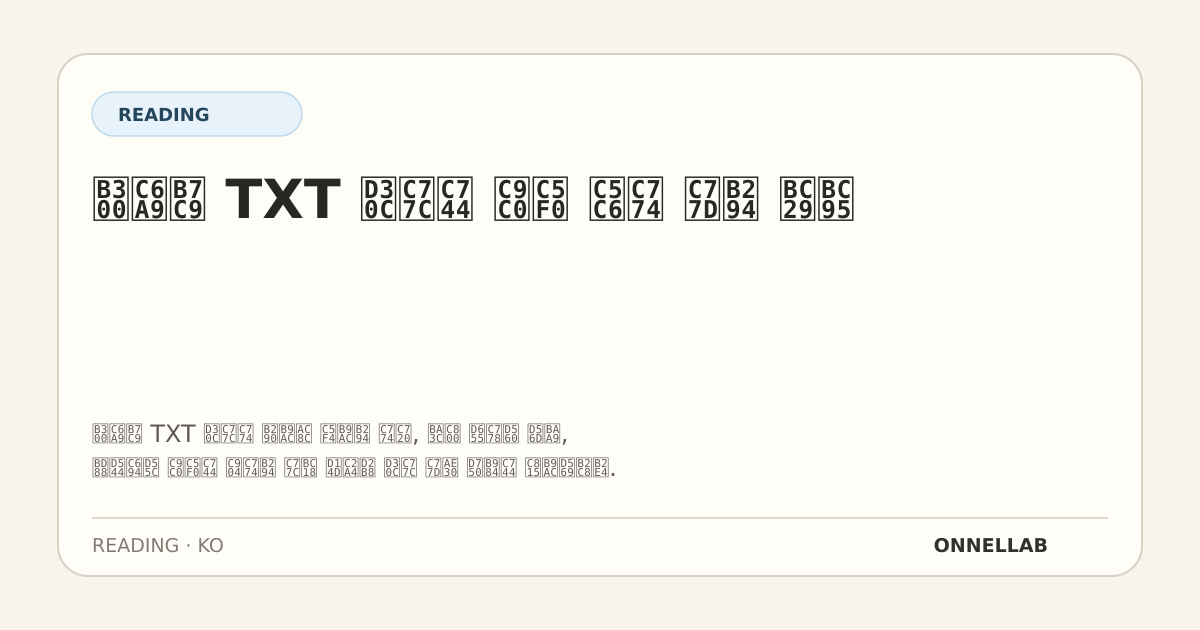
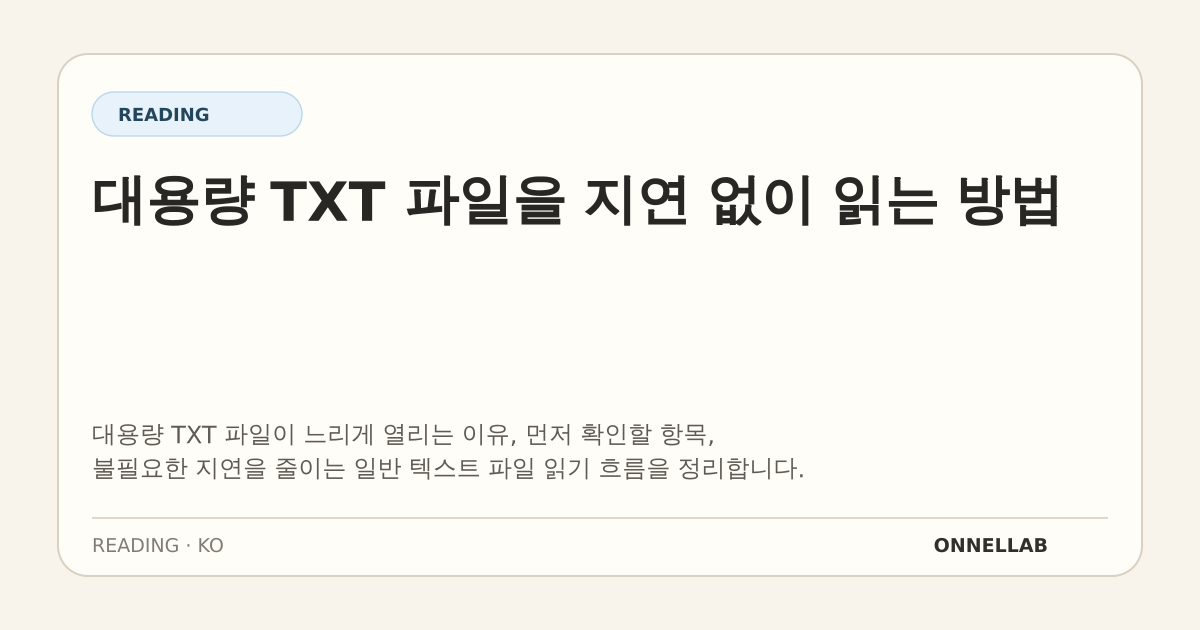
Publish TagWeaver metadata guides

Changed region(s): [[0.0617, 0.2714, 0.8942, 0.3619], [0.0617, 0.6635, 0.6783, 0.7841]]

diff --git a/src/content/blog/en/clean-up-mp3-metadata-before-organizing-music.md b/src/content/blog/en/clean-up-mp3-metadata-before-organizing-music.md
@@ -1,0 +1,133 @@
+---
+title: "How to Clean Up MP3 Metadata Before Organizing Music"
+card_title: "How to Clean Up MP3 Metadata Before Organizing Music"
+slug: "clean-up-mp3-metadata-before-organizing-music"
+category: "music"
+language: "en"
+description: "Clean up MP3 metadata safely with a backup-first workflow for titles, artists, albums, track numbers, artwork, and library verification."
+status: "published"
+topic_id: "TOPIC-0008"
+search_intent: "workflow"
+primary_keyword: "MP3 metadata editor"
+secondary_keywords: "ID3 tags|music library organization|album artwork|TagWeaver"
+related_apps: "TagWeaver"
+tags: "MP3 metadata editor|ID3 tags|music library organization|album artwork"
+image_specs: "Backup-first MP3 metadata cleanup workflow|Field consistency comparison|Manual save verification"
+canonical_url: "https://onnellab.github.io/blog/en/clean-up-mp3-metadata-before-organizing-music/"
+published_at: "2026-07-20T14:56:51+09:00"
+updated_at: "2026-07-20T14:56:51+09:00"
+related_articles: "How to Read Large TXT Files Without Lag => https://onnellab.github.io/blog/en/read-large-txt-files-without-lag/|How to Convert Local Media Files Privately => https://onnellab.github.io/blog/en/convert-local-media-files-privately/"
+---
+
+# How to Clean Up MP3 Metadata Before Organizing Music
+
+An MP3 can play perfectly while appearing under the wrong artist, splitting one album into several groups, or sorting tracks out of order. Fixing those symptoms is easier before importing a large collection than after a music library has indexed every inconsistency.
+
+## Question
+
+How can I clean up MP3 metadata before adding songs to a library?
+
+## Short Answer
+
+Work on copies, define one naming convention, correct the identity and ordering fields first, add artwork only after the text is consistent, save a small test batch, and inspect that batch in the destination player. Do not infer uncertain facts from filenames. A careful MP3 metadata editor workflow favors consistent, verified values over filling every possible field.
+
+## Definitions That Matter
+
+**Metadata** is descriptive information stored with the audio, such as title, artist, album, track number, disc number, genre, year, lyrics, and artwork. **ID3** is the tag format commonly used to carry that information in MP3 files. The ID3 specification assigns distinct frames to values such as the title (`TIT2`), album (`TALB`), track position (`TRCK`), disc position (`TPOS`), and attached picture (`APIC`).
+
+Encoding is the rule used to represent text as bytes. If software interprets a tag's text with the wrong encoding, names can appear as broken characters even though the audio is intact. Virtual rendering is an interface technique that draws only visible items in a long list; it can make a library view responsive, but it does not repair tags or make inconsistent album values match.
+
+An **embedded cover** is image data stored in the audio file's metadata. It is different from a separate image placed beside the album folder. The ID3v2.4 specification identifies JPEG and PNG as the preferred formats when interoperability matters and defines a front-cover picture type.
+
+## Why Cleanup Before Import Helps
+
+Music players usually group and sort files from tag values, not from the visual neatness of a folder. Two tracks can sit in the same directory yet form separate albums if their album or album-artist values differ by punctuation, spacing, or spelling. Track values also express order: `4/9` means track four of nine, while a disc value such as `1/2` identifies one part of a multi-disc set.
+
+The goal is not to make every field non-empty. The goal is to make the fields you trust internally consistent. A guessed release year or composer can be harder to detect later than an intentionally blank field.
+
+## What to Check First
+
+- Keep an untouched backup and edit duplicate files in a separate working folder.
+- Decide which source is authoritative for title, artist, album, and track order.
+- Write down capitalization, featured-artist, genre, and multi-disc conventions before bulk edits.
+- Check whether the destination player reads embedded metadata, a separate library database, or both.
+- Confirm that you have permission to use any artwork you plan to embed.
+
+## Recommended Workflow
+
+1. **Create a reversible workspace.** Copy a small album or five representative tracks into a test folder. Never begin with the only copy of the collection.
+2. **Identify each recording.** Listen briefly when the filename and current title disagree. Mark uncertain tracks instead of guessing.
+3. **Normalize identity fields.** Make title, artist, album, and album artist consistent. Use album artist deliberately for compilations or releases where track artists vary.
+4. **Set ordering fields.** Enter track number and total where known, then disc number and total for multi-disc releases. Check that every disc restarts at track one when that reflects the release.
+5. **Review optional fields.** Add year, genre, composer, lyrics, or rating only from a trustworthy source and only when they help the way you browse.
+6. **Handle artwork last.** Use a lawful, reasonably sized JPEG or PNG, mark it as the front cover when the editor offers that choice, and avoid embedding several redundant images.
+7. **Save and reopen the files.** Close the editor, reopen the test batch, and confirm that text, numbering, and artwork were actually written.
+8. **Test the destination library.** Import only the small batch. Inspect grouping, sort order, search results, non-Latin characters, and cover display before repeating the process.
+
+![Workflow diagram](/blog-assets/en/clean-up-mp3-metadata-before-organizing-music/workflow-diagram.svg "Backup-first MP3 metadata cleanup workflow")
+
+## Field Priority Comparison
+
+| Field group | Why it matters | Safe decision when uncertain |
+| --- | --- | --- |
+| Title and artist | Identifies the recording in search and playback views | Verify by listening; do not rely only on the filename |
+| Album and album artist | Controls grouping across a release | Apply one exact convention to every track in the album |
+| Track and disc position | Controls playback and display order | Include totals only when the complete set is known |
+| Year, genre, composer | Improves filtering and context | Leave blank rather than inventing a value |
+| Embedded artwork | Helps visual recognition | Add one authorized front cover after text cleanup |
+| Lyrics and extended fields | Supports specialized browsing or display | Preserve existing data unless there is a clear reason to change it |
+
+## Practical Cautions
+
+Batch editing is efficient precisely because one action affects many files. Filter the selection before changing a shared album, artist, year, or artwork value. Do not apply track-specific fields such as title or track number to an entire batch unless the editor provides a deliberate sequence operation.
+
+Keep the first backup until the cleaned collection has survived an import and a later reopen. Some players retain library records or cached artwork, so an old display does not necessarily prove that the file save failed. Reopen the file in the editor, then refresh or re-import only the test batch according to the player's documented behavior.
+
+Changing metadata does not improve audio quality, repair damaged audio, or prove factual accuracy. It changes the descriptive layer around the recording. Also avoid converting audio merely to edit tags; conversion can alter the media while a tag edit should remain a metadata task.
+
+## ONNELLAB Application
+
+[TagWeaver](/apps/tagweaver/) fits this manual, local cleanup workflow when you need an MP3 metadata editor for selected files. Its public store listings document editing for core identity fields, track and disc values, artwork, lyrics, and batch selections, with explicit save control. The current iOS listing also describes FLAC Vorbis Comment support, while the Google Play listing documents MP3 ID3 v2.3 and v2.4; check the relevant store listing for the format and platform you use.
+
+The app is a tool for applying decisions, not a source of music facts. Establish conventions, verify the recording, and test the saved output before expanding a batch.
+
+## Related Topics
+
+- How album artist differs from track artist in compilations
+- When to use track totals and disc totals
+- How text encoding affects non-Latin music tags
+- How to verify embedded artwork without changing audio
+
+## References
+
+- [ID3.org: ID3v2.4.0 frame definitions](https://id3.org/id3v2.4.0-frames) defines the title, album, track, disc, and attached-picture frames used in MP3 tags.
+- [ID3.org: ID3v2.3.0 specification](https://id3.org/id3v2.3.0) documents the earlier ID3v2.3 structure still used by many files and tools.
+- [Apple Support: Add artwork to content in Music on Mac](https://support.apple.com/guide/music/add-artwork-mus1c6803257/mac) describes supported artwork files and manual artwork changes in Apple's music library workflow.
+- [TagWeaver on the App Store](https://apps.apple.com/app/id6759609875) is the official iOS product listing and format-capability reference.
+- [TagWeaver on Google Play](https://play.google.com/store/apps/details?id=com.onnellab.tagweaver2) is the official Android product listing and ID3-capability reference.
+
+## Conclusion
+
+Treat metadata cleanup as a controlled data-quality task: preserve the original, standardize trusted fields, order tracks explicitly, add artwork after the text is stable, and prove the result with a small import. That workflow prevents a fast batch edit from becoming a collection-wide mistake.
+
+## FAQ
+
+### Should I fill every empty tag?
+
+No. Complete but unverified metadata is less useful than a smaller set of accurate, consistent fields. Prioritize title, artist, album, album artist, and ordering.
+
+### Why does one album appear as two albums?
+
+Compare album and album-artist values character by character. Small spelling, punctuation, or spacing differences can lead a player to group tracks separately.
+
+### Is album artist the same as track artist?
+
+Not always. Track artist identifies the performer credited on one recording. Album artist can provide a shared grouping value across a compilation or album with varying track credits.
+
+### Should track numbers include totals?
+
+Totals such as `4/9` are useful when you know the complete release. A correct position without a total is safer than an incorrect total.
+
+### Can changing tags reduce audio quality?
+
+A metadata-only save is conceptually separate from audio encoding. Keep a backup and verify the saved file because an editor's exact write behavior still matters.

diff --git a/src/content/blog/ko/clean-up-mp3-metadata-before-organizing-music.md b/src/content/blog/ko/clean-up-mp3-metadata-before-organizing-music.md
@@ -1,0 +1,133 @@
+---
+title: "음악 정리 전 MP3 메타데이터를 정돈하는 방법"
+card_title: "음악 정리 전 MP3 메타데이터를 정돈하는 방법"
+slug: "clean-up-mp3-metadata-before-organizing-music"
+category: "music"
+language: "ko"
+description: "제목, 아티스트, 앨범, 트랙 번호, 앨범 아트를 백업 우선 방식으로 점검하고 MP3 메타데이터를 안전하게 정돈하는 방법을 설명합니다."
+status: "published"
+topic_id: "TOPIC-0013"
+search_intent: "workflow"
+primary_keyword: "MP3 메타데이터 편집기"
+secondary_keywords: "ID3 태그|음악 라이브러리 정리|앨범 아트|TagWeaver"
+related_apps: "TagWeaver"
+tags: "MP3 메타데이터 편집기|ID3 태그|음악 라이브러리 정리|앨범 아트"
+image_specs: "백업부터 검증까지 이어지는 MP3 메타데이터 정돈 흐름|필드 우선순위 비교|직접 저장 결과 확인"
+canonical_url: "https://onnellab.github.io/blog/ko/clean-up-mp3-metadata-before-organizing-music/"
+published_at: "2026-07-20T14:56:51+09:00"
+updated_at: "2026-07-20T14:56:51+09:00"
+related_articles: "대용량 TXT 파일을 지연 없이 읽는 방법 => https://onnellab.github.io/blog/ko/read-large-txt-files-without-lag/|로컬 미디어 파일을 비공개로 변환하는 방법 => https://onnellab.github.io/blog/ko/convert-local-media-files-privately/"
+---
+
+# 음악 정리 전 MP3 메타데이터를 정돈하는 방법
+
+MP3 파일은 정상적으로 재생되는데 아티스트가 엉뚱하게 표시되거나, 한 앨범이 여러 묶음으로 갈라지거나, 곡 순서가 뒤섞일 수 있습니다. 많은 파일을 음악 보관함에 넣은 뒤 고치기보다 가져오기 전에 기준을 세우고 작은 묶음으로 검증하는 편이 안전합니다.
+
+## 질문
+
+음악 라이브러리에 곡을 추가하기 전에 MP3 메타데이터를 어떻게 정리해야 하나요?
+
+## 요약 답변
+
+원본을 복사하고, 이름 표기 기준을 먼저 정한 뒤, 제목·아티스트·앨범·트랙 순서부터 바로잡으세요. 텍스트 값이 일관된 후 앨범 아트를 추가하고, 소량의 시험 파일을 저장해 실제 음악 앱에서 묶음과 정렬을 확인합니다. 확실하지 않은 정보를 파일명만 보고 추측하지 않는 것이 중요합니다. 좋은 MP3 메타데이터 편집기 작업은 모든 칸을 채우는 일이 아니라 믿을 수 있는 값을 일관되게 만드는 일입니다.
+
+## 알아둘 정의
+
+**메타데이터**는 제목, 아티스트, 앨범, 트랙 번호, 디스크 번호, 장르, 연도, 가사, 그림처럼 오디오를 설명하는 정보입니다. **ID3**는 이런 정보를 MP3 파일에 담는 데 널리 쓰이는 태그 형식입니다. ID3 명세는 제목(`TIT2`), 앨범(`TALB`), 트랙 위치(`TRCK`), 디스크 위치(`TPOS`), 첨부 그림(`APIC`)을 서로 다른 프레임으로 구분합니다.
+
+인코딩은 글자를 바이트로 표현하는 규칙입니다. 프로그램이 태그의 인코딩을 잘못 해석하면 오디오는 멀쩡해도 한글이나 다른 문자가 깨져 보일 수 있습니다. 가상 렌더링은 긴 목록에서 화면에 보이는 항목만 그리는 화면 처리 방식입니다. 음악 목록을 빠르게 보여줄 수는 있지만 서로 다른 앨범 값이나 깨진 태그를 고쳐 주지는 않습니다. 일반 텍스트 파일의 문자 문제를 다룰 때와 마찬가지로, 보이는 글자와 실제 저장값을 구분해야 합니다.
+
+**내장 표지**는 이미지가 오디오 파일의 메타데이터 안에 저장된 형태입니다. 앨범 폴더 옆에 따로 둔 이미지와는 다릅니다. ID3v2.4 명세는 호환성이 중요할 때 JPEG와 PNG를 권장하며 앞표지 그림 유형을 별도로 정의합니다.
+
+## 가져오기 전에 정리해야 하는 이유
+
+음악 앱은 폴더가 보기 좋게 정리됐는지보다 태그 값을 기준으로 곡을 묶고 정렬하는 경우가 많습니다. 같은 폴더의 곡도 앨범명이나 앨범 아티스트의 띄어쓰기, 문장 부호, 표기가 다르면 여러 앨범으로 나뉠 수 있습니다. 트랙 값은 순서도 나타냅니다. `4/9`는 전체 아홉 곡 중 네 번째 곡을, `1/2` 같은 디스크 값은 두 장 구성 중 첫 번째 디스크를 뜻합니다.
+
+모든 필드를 빈틈없이 채우는 것이 목표는 아닙니다. 출처를 확인한 핵심 필드를 서로 모순 없이 만드는 것이 목표입니다. 추측한 발매 연도나 작곡가는 빈칸보다 나중에 오류를 알아차리기 어려울 수 있습니다.
+
+## 먼저 확인할 항목
+
+- 손대지 않은 원본을 보관하고 별도 작업 폴더의 복사본을 편집합니다.
+- 제목, 아티스트, 앨범, 곡 순서를 판단할 기준 자료를 정합니다.
+- 대문자 표기, 참여 아티스트, 장르, 여러 장으로 된 앨범의 규칙을 적어 둡니다.
+- 사용할 음악 앱이 파일 내장 태그와 자체 보관함 정보 중 무엇을 읽는지 확인합니다.
+- 넣으려는 앨범 아트를 사용할 권리가 있는지 확인합니다.
+
+## 권장 워크플로
+
+1. **되돌릴 수 있는 작업 공간을 만듭니다.** 앨범 하나나 서로 다른 유형의 다섯 곡 정도를 시험 폴더에 복사합니다. 유일한 원본부터 편집하지 않습니다.
+2. **곡의 정체를 확인합니다.** 파일명과 현재 제목이 다르면 짧게 재생해 확인합니다. 모르는 곡은 추측하지 말고 따로 표시합니다.
+3. **식별 필드를 통일합니다.** 제목, 아티스트, 앨범, 앨범 아티스트의 표기를 맞춥니다. 곡별 아티스트가 달라지는 모음집에서는 앨범 아티스트 값을 의도적으로 정합니다.
+4. **재생 순서를 입력합니다.** 알고 있는 경우 트랙 번호와 전체 곡 수를 입력합니다. 여러 장 구성이라면 디스크 번호와 전체 장수도 정하고 각 디스크가 실제 구성대로 1번부터 시작하는지 봅니다.
+5. **선택 필드를 검토합니다.** 연도, 장르, 작곡가, 가사, 별점은 믿을 수 있는 출처가 있고 실제 탐색에 도움이 될 때만 추가합니다.
+6. **앨범 아트는 마지막에 처리합니다.** 사용할 권리가 있는 적당한 크기의 JPEG 또는 PNG를 선택하고, 편집기가 유형을 제공하면 앞표지로 지정합니다. 같은 그림을 여러 장 중복 삽입하지 않습니다.
+7. **저장한 뒤 다시 엽니다.** 편집기를 닫고 시험 파일을 다시 열어 글자, 번호, 그림이 실제로 기록됐는지 확인합니다.
+8. **목적지 음악 앱에서 시험합니다.** 소량만 가져와 앨범 묶음, 정렬, 검색, 한글 표시, 표지 표시를 확인한 뒤 작업 범위를 넓힙니다.
+
+![워크플로 다이어그램](/blog-assets/ko/clean-up-mp3-metadata-before-organizing-music/workflow-diagram.svg "백업부터 가져오기 검증까지 이어지는 MP3 메타데이터 정돈 흐름")
+
+## 필드 우선순위 비교
+
+| 필드 묶음 | 중요한 이유 | 확실하지 않을 때의 안전한 선택 |
+| --- | --- | --- |
+| 제목과 아티스트 | 검색과 재생 화면에서 곡을 식별함 | 파일명만 믿지 말고 직접 들어 확인함 |
+| 앨범과 앨범 아티스트 | 한 음반의 곡을 같은 묶음으로 모음 | 앨범 전체에 정확히 같은 표기 규칙을 적용함 |
+| 트랙과 디스크 위치 | 표시 및 재생 순서를 결정함 | 전체 수를 모르면 정확한 현재 번호만 입력함 |
+| 연도, 장르, 작곡가 | 분류와 맥락 파악에 도움을 줌 | 값을 만들어 내지 말고 빈칸으로 둠 |
+| 내장 앨범 아트 | 시각적으로 음반을 찾기 쉽게 함 | 텍스트 정리 후 사용 권리가 있는 앞표지 한 장을 넣음 |
+| 가사와 확장 필드 | 특정 음악 앱의 탐색이나 표시에 쓰임 | 변경할 분명한 이유가 없다면 기존 값을 보존함 |
+
+## 실무상 주의점
+
+일괄 편집은 한 번의 작업이 여러 파일에 적용되므로 빠릅니다. 바로 그 이유로 선택 범위를 잘못 잡으면 피해도 커집니다. 공통 앨범명, 아티스트, 연도, 그림을 바꾸기 전에 파일 목록을 다시 확인하세요. 편집기가 의도적인 연속 번호 기능을 제공하지 않는다면 곡별 제목이나 트랙 번호를 전체 선택에 덮어쓰지 않습니다.
+
+정리한 파일을 음악 앱에 넣고 나중에 다시 열어 볼 때까지 첫 백업을 유지하세요. 일부 음악 앱은 예전 보관함 정보나 그림을 임시로 계속 보여줄 수 있으므로 화면이 그대로라고 해서 저장 실패라고 단정할 수는 없습니다. 먼저 편집기에서 파일을 다시 열어 실제 저장값을 확인하고, 음악 앱이 안내하는 방식으로 시험 묶음만 새로고침하거나 다시 가져옵니다.
+
+메타데이터를 바꾼다고 음질이 좋아지거나 손상된 오디오가 복구되거나 정보의 사실성이 보장되지는 않습니다. 바뀌는 것은 녹음을 설명하는 층입니다. 태그를 수정하려는 목적으로 오디오 형식까지 변환하지 마세요. 형식 변환은 음원에 영향을 줄 수 있지만 태그 편집은 메타데이터 작업으로 남아야 합니다.
+
+## ONNELLAB 앱
+
+[TagWeaver](/apps/tagweaver/)는 사용자가 고른 파일을 직접 확인하고 저장하는 이 로컬 정돈 흐름에 맞는 MP3 메타데이터 편집기입니다. 공식 스토어 설명에는 핵심 식별 필드, 트랙·디스크 값, 앨범 아트, 가사, 여러 파일 선택 기능이 안내되어 있습니다. 현재 iOS 설명은 FLAC의 Vorbis Comment 지원도 안내하고, Google Play 설명은 MP3 ID3 v2.3과 v2.4를 명시하므로 사용하는 운영체제와 파일 형식에 맞는 스토어 정보를 확인해야 합니다.
+
+이 앱은 정한 값을 기록하는 도구이지 곡 정보를 판정하는 출처가 아닙니다. 표기 기준을 먼저 세우고, 실제 곡을 확인하며, 저장 결과를 시험한 뒤 일괄 작업 범위를 넓히세요.
+
+## 관련 주제
+
+- 모음집에서 앨범 아티스트와 곡 아티스트를 구분하는 방법
+- 트랙 전체 수와 디스크 전체 수를 입력해야 하는 경우
+- 문자 인코딩이 한글 음악 태그에 미치는 영향
+- 오디오를 바꾸지 않고 내장 앨범 아트를 확인하는 방법
+
+## 참고 자료
+
+- [ID3.org의 ID3v2.4.0 프레임 정의](https://id3.org/id3v2.4.0-frames)는 MP3 태그의 제목, 앨범, 트랙, 디스크, 첨부 그림 프레임을 정의합니다.
+- [ID3.org의 ID3v2.3.0 명세](https://id3.org/id3v2.3.0)는 여러 파일과 도구에서 계속 사용되는 이전 ID3v2.3 구조를 설명합니다.
+- [Apple 지원: Mac용 음악 앱에서 콘텐츠에 앨범 표지 추가하기](https://support.apple.com/ko-kr/guide/music/mus1c6803257/mac)는 지원하는 그림 파일과 음악 보관함에서 직접 표지를 바꾸는 방법을 설명합니다.
+- [App Store의 TagWeaver](https://apps.apple.com/kr/app/id6759609875)는 iOS용 공식 제품 및 파일 형식 안내입니다.
+- [Google Play의 TagWeaver](https://play.google.com/store/apps/details?id=com.onnellab.tagweaver2)는 Android용 공식 제품 및 ID3 기능 안내입니다.
+
+## 결론
+
+메타데이터 정리는 통제 가능한 데이터 품질 작업으로 접근하세요. 원본을 보존하고, 확인한 필드를 통일하고, 트랙 순서를 명시하고, 텍스트가 안정된 후 앨범 아트를 넣고, 소량 가져오기로 결과를 증명합니다. 이 순서를 지키면 빠른 일괄 편집이 음악 모음 전체의 실수가 되는 일을 막을 수 있습니다.
+
+## 자주 묻는 질문
+
+### 빈 태그를 모두 채워야 하나요?
+
+아닙니다. 확인하지 않은 정보로 모든 칸을 채우는 것보다 제목, 아티스트, 앨범, 앨범 아티스트, 순서처럼 중요한 값을 정확하고 일관되게 관리하는 편이 낫습니다.
+
+### 한 앨범이 두 개로 나뉘는 이유는 무엇인가요?
+
+앨범명과 앨범 아티스트 값을 글자 단위로 비교하세요. 작은 띄어쓰기, 문장 부호, 철자 차이 때문에 음악 앱이 곡을 별도 앨범으로 묶을 수 있습니다.
+
+### 앨범 아티스트와 곡 아티스트는 같은가요?
+
+항상 같지는 않습니다. 곡 아티스트는 한 녹음의 참여자를 나타내고, 앨범 아티스트는 곡별 참여자가 다른 모음집이나 음반 전체를 하나로 묶는 공통값으로 쓸 수 있습니다.
+
+### 트랙 번호에 전체 곡 수도 넣어야 하나요?
+
+전체 구성을 정확히 알 때 `4/9`처럼 넣으면 유용합니다. 잘못된 전체 수를 넣는 것보다는 정확한 현재 번호만 입력하는 편이 안전합니다.
+
+### 태그를 바꾸면 음질이 떨어지나요?
+
+메타데이터만 저장하는 작업은 오디오 인코딩과 개념적으로 분리됩니다. 다만 편집기마다 실제 저장 방식이 중요하므로 원본을 보관하고 결과 파일을 다시 열어 확인해야 합니다.